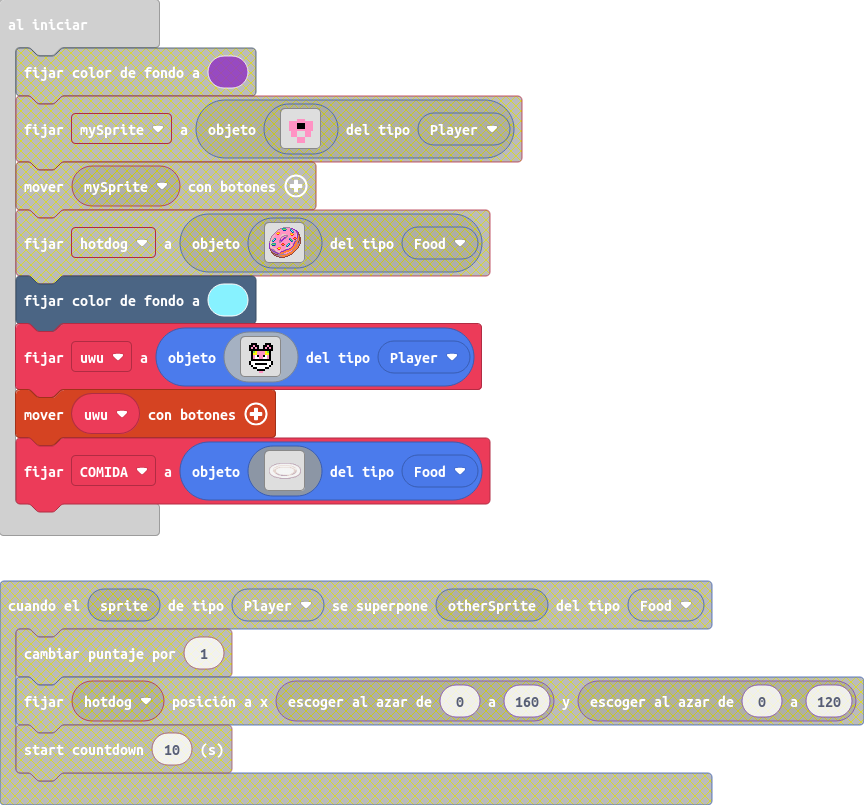
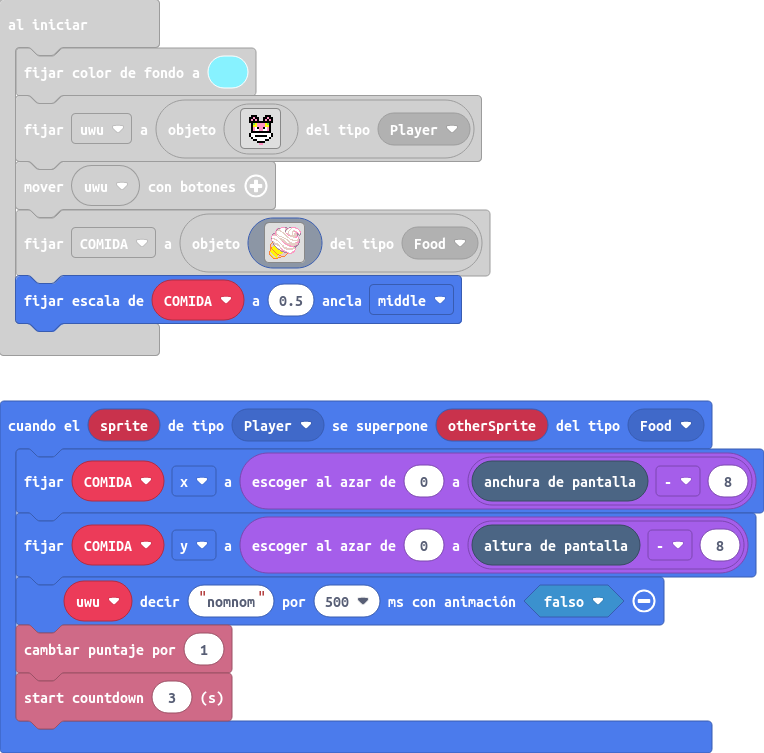
Actualizar main.blocks, main.ts

diff --git a/main.ts b/main.ts
@@ -1,5 +1,14 @@
+sprites.onOverlap(SpriteKind.Player, SpriteKind.Food, function (sprite, otherSprite) {
+    COMIDA.x = randint(0, scene.screenWidth() - 8)
+    COMIDA.y = randint(0, scene.screenHeight() - 8)
+    uwu.sayText("nomnom", 500, false)
+    info.changeScoreBy(1)
+    info.startCountdown(3)
+})
+let COMIDA: Sprite = null
+let uwu: Sprite = null
 scene.setBackgroundColor(9)
-let uwu = sprites.create(img`
+uwu = sprites.create(img`
     . . . . . . . . . . . . . . . . 
     . . . f f f . . . . f f f . . . 
     . . f f 3 f f . . f f 3 f f . . 
@@ -18,29 +27,38 @@ let uwu = sprites.create(img`
     . . . . . . . 3 3 . . . . . . . 
     `, SpriteKind.Player)
 controller.moveSprite(uwu)
-let COMIDA = sprites.create(img`
-    ...............bbbbbbbbbbbbbbbbbbb...............
-    ...........bbbbdd111111111111111ddbbbb...........
-    ........bbbd1111111111111111111111111dbbb........
-    ......bbd11111111dddddddddddddd111111111dbb......
-    ....bbd1111111ddd11111111111111dddd1111111dbb....
-    ...bd111111ddd111111111111111111111ddd111111db...
-    ..bd11111ddd111ddddddddddddddddddd111ddd11111db..
-    .bd11111dd111dddd111111111111111dddd111dd11111db.
-    .b11111d111ddd111111111111111111111ddd111d11111b.
-    bd11111d1ddd1111111111111111111111111ddd1111111db
-    b11111d1ddd111111111111111111111111111ddd1d11111b
-    b11111ddddd111111111111111111111111111ddddd11111b
-    b11111ddddd111111111111111111111111111dddbd11111b
-    b111111dddd111111111111111111111111111dddb111111b
-    bd111111dddd1111111111111111111111111dddbd11111db
-    .b1111111dddd11111111111111111111111dddbd111111b.
-    .bd1111111dbbdd1111111111111111111dddbbd111111db.
-    ..bd11111111dbbdd111111111111111dddbbd1111111db..
-    ...bd111111111dbbbbbbdddddddddddddd111111111db...
-    ....bbd11111111111dbbbbbbbbbddd11111111111dbb....
-    ......bbdd11111111111111111111111111111ddbb......
-    ........bbbdd11111111111111111111111ddbbb........
-    ...........bbbbbddd11111111111dddbbbbb...........
-    ................bbbbbbbbbbbbbbbbb................
+COMIDA = sprites.create(img`
+    ............3333bb..bb33333.....
+    ........3bb31111d3b311d111d33...
+    .......3bdd11111dbd11d11111113..
+    .......bdddd1111bd11d111dd11113.
+    ......3d111dd111b11d111dd33d11d3
+    ......3d11111dd1d11d111d11d33113
+    ....bb3d111111dd13dd111d1dd3b31b
+    ...b3d3dd111111dd13dd11d1dddbbdb
+    ...3ddd31d111111dd133dddddddb.b.
+    ..311111d1ddd1111dd11dddddd33...
+    ..3111111d111dd111dd1111dd3313..
+    ..bddd1111ddd11dd111d111111113..
+    ..311ddd111dddd11dd11ddd1111ddb.
+    ..31111dd111dddd11dd111dddddddb.
+    ...bd1111d1113ddd11dd1111111d3b.
+    ...4dd1111d1113ddd11ddd111d333b.
+    ..4dbdddd11d11133ddddddddddddb..
+    .4ddbddddd11d111d33ddddddddd3b..
+    .4dddb11ddd11dd111d333dddd3bb...
+    .4dd55b111d11dd11111d3333bbb....
+    .445555b111d11dddd111111ddb.....
+    .4455555bd1d311ddddddddddd3.....
+    .45455555bb1d3111ddddddd113.....
+    .4554555555b333d1111111113......
+    455554555555bbb33d11111d33......
+    4d555545555555dbbb3d11d33.......
+    4dd5555455555ddddd43333.........
+    45dd555544ddddddd4..............
+    .45dd5555d44dddd4...............
+    ..45dd55dddd4444................
+    ...45dd55444....................
+    ....44444.......................
     `, SpriteKind.Food)
+COMIDA.setScale(0.5, ScaleAnchor.Middle)
